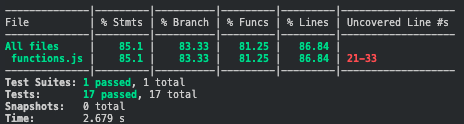
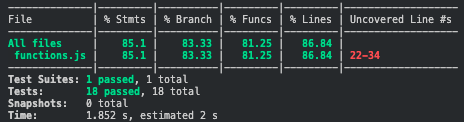
agrega últimos cambios

Changed region(s): [[0.0, 0.0246, 0.9957, 0.9836], [0.0, 0.123, 0.0905, 0.2213]]

diff --git a/test/functions.spec.js b/test/functions.spec.js
@@ -59,7 +59,7 @@ describe('extname', () => {
 });
 
 describe('getMdFilesRecursive', () => {
-  // Función mock fs.readdirSync
+  // Función mock fs.readdirSync, simula el comportamiento
   jest.spyOn(fs, 'readdirSync').mockImplementation((dir) => {
     if (dir === 'tempDir') {
       return ['file1.md', 'file2.js', 'subdir'];
@@ -144,37 +144,36 @@ describe('validateLink', () => {
 });
 
 describe('calculateStats', () => {
-  it('Should calculate stats correctly for a set of links', () => {
-    // Array de enlaces para la prueba
+  it('Should return correct stats for links', () => {
     const links = [
-      { href: 'https://www.google.com', status: 200 },
-      { href: 'https://www.example.com', status: 200 },
-      { href: 'https://www.example.com', status: 404 },
-      { href: 'https://www.invalidlink.com', status: 500 },
+      { href: 'https://example.com/page1', status: 200 },
+      { href: 'https://example.com/page2', status: 404 },
+      { href: 'https://example.com/page3', status: 200 },
+      { href: 'https://example.com/page1', status: 200 }, // Duplicate link
     ];
-
-    // Realiza la prueba llamando a la función calculateStats
-    const stats = calculateStats(links);
-    // Verifica que los cálculos sean correctos
-    expect(stats.totalLinks).toBe(4); // Total de enlaces en el array
-    expect(stats.uniqueLinks).toBe(3); // Enlaces únicos (ignora duplicados)
-    expect(stats.brokenLinks).toBe(2); // Enlaces con status >= 400 (rotos)
-    // Verifica que los enlaces únicos también sean correctos
-    expect(stats.uniqueLinksArray).toEqual([
-      'https://www.google.com',
-      'https://www.example.com',
-      'https://www.invalidlink.com',
-    ]);
+    const result = calculateStats(links);
+    expect(result.totalLinks).toBe(4);
+    expect(result.uniqueLinks).toBe(3);
+    expect(result.brokenLinks).toBe(1);
   });
-  it('Should return zero stats for an empty array of links', () => {
-    // Array de enlaces vacío
+
+  it('Should return correct stats when there are no broken links', () => {
+    const links = [
+      { href: 'https://example.com/page1', status: 200 },
+      { href: 'https://example.com/page2', status: 200 },
+      { href: 'https://example.com/page3', status: 200 },
+    ];
+    const result = calculateStats(links);
+    expect(result.totalLinks).toBe(3);
+    expect(result.uniqueLinks).toBe(3);
+    expect(result.brokenLinks).toBe(0);
+  });
+
+  it('Should return correct stats for empty link array', () => {
     const links = [];
-    // Realiza la prueba llamando a la función calculateStats
-    const stats = calculateStats(links);
-    // Verifica que todos los valores sean cero para un array vacío
-    expect(stats.totalLinks).toBe(0);
-    expect(stats.uniqueLinks).toBe(0);
-    expect(stats.brokenLinks).toBe(0);
-    expect(stats.uniqueLinksArray).toEqual([]);
+    const result = calculateStats(links);
+    expect(result.totalLinks).toBe(0);
+    expect(result.uniqueLinks).toBe(0);
+    expect(result.brokenLinks).toBe(0);
   });
 });

diff --git a/src/functions.js b/src/functions.js
@@ -17,7 +17,8 @@ export const extname = (route) => path.extname(route);
 
 // Lee el contenido de un archivo .md y extrae los links
 export const readMdFile = (route) => {
-  // Lee el contenido del archivo en formato UTF-8
+  // eslint-disable-next-line max-len
+  // Método readfileSync lee el contenido del archivo en formato UTF-8(como se van a codificar los caracteres)
   const content = fs.readFileSync(route, 'utf8');
   // Expresión regular para buscar patrones de enlaces en el contenido
   const linkRegex = /\[([^\]]+)\]\((https?:\/\/[^)]+)\)/gm;
@@ -34,6 +35,7 @@ export const readMdFile = (route) => {
 };
 // Obtiene todos los archivos .md de un directorio y sus subdirectorios
 export const getMdFilesRecursive = (dir) => {
+  // Almacena las rutas de los archivos .md encontrados en todos los directorios
   let mdFiles = [];
 
   // Lee los archivos y subdirectorios del directorio
@@ -93,7 +95,5 @@ export const calculateStats = (links) => {
     totalLinks,
     uniqueLinks,
     brokenLinks,
-    // Array de enlaces únicos obtenidos del conjunto
-    uniqueLinksArray: Array.from(uniqueLinksSet),
   };
 };

diff --git a/src/mdLinks.js b/src/mdLinks.js
@@ -48,7 +48,7 @@ const mdLinks = (pathUser, options = {}) => new Promise((resolve, reject) => {
     reject(new Error('The route doesn\'t exist. Please enter a valid path'));
   }
 
-  // Verifica si la ruta no es absoluta
+  // En caso que la ruta si existe, verifica si la ruta no es absoluta
   if (!absolutePath(pathUser)) {
     // Si no es absoluta, devuelve una promesa con la ruta absoluta
     resolve(`The absolute path is: ${path.resolve(pathUser)}`);

diff --git a/README.md b/README.md
@@ -12,7 +12,7 @@
 * [5. Instalación y Guía de Uso](#5-instalación-y-guía-de-uso)
 * [6. Pruebas Unitarias](#6-pruebas-unitarias)
 * [7. Checklist](#7-checklist)
-* [8. Board con la implementación de la librería](#8-board-con-la-implementación-de-la-librería)
+* [8. Board](#8-board)
 
 ***
 
@@ -211,6 +211,6 @@ Los test realizados cubren el 85,1 de statements, 83,3% de branch, 81,25% de fun
 * [x] Pasa tests (y linters) (`npm test`).
 
 
-## 8. Board con la implementación de la librería
+## 8. Board
 
 Puedes visualizar el backlog con la implementación de la librería en <a href="https://github.com/users/claudiaoj/projects/1/views/1">Github Project</a>.
